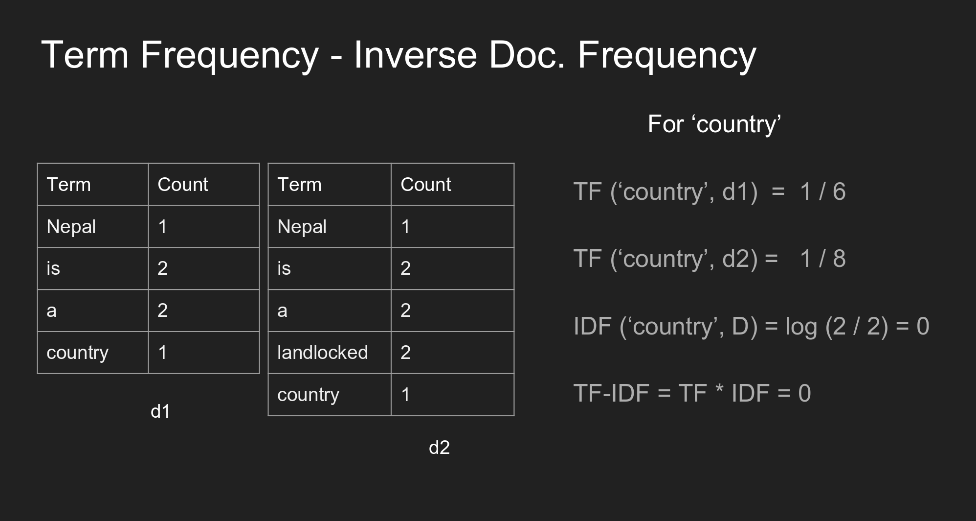
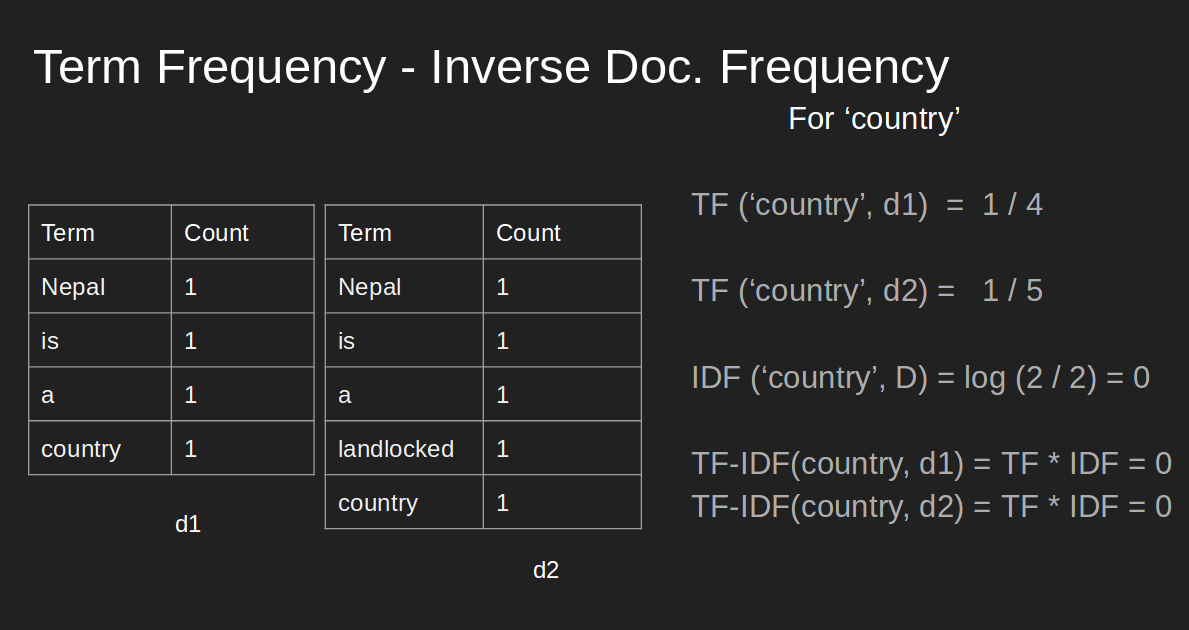
Nikola auto commit.
Source commit: 6259c2bf76c8254b4573d1e269edc7860df01e13
Nikola version: 8.0.1

diff --git a/blog/index.html b/blog/index.html
@@ -102,6 +102,7 @@
 <li>Summarizing a document by extracting keywords.</li>
 <li>Comparing two documents (similary/ relevancy check)</li>
 <li>Search query to documents matching for building query results for search engine</li>
+<li>Weighting 'terms' in the document.</li>
 </ol>
 </div>
 </div>
@@ -113,7 +114,7 @@
 <div class="text_cell_render border-box-sizing rendered_html">
 <h4 id="Inverse-Document-Frequency-(IDF):">Inverse Document Frequency (IDF):<a class="anchor-link" href="../posts/understanding-term-frequencey-and-inverse-document-frequency/#Inverse-Document-Frequency-(IDF):">¶</a>
 </h4>
-<p>It gives the importance to more relevant/significant term in the document. It tries to lower the weights to terms having less importance.</p>
+<p>It gives the importance to more relevant/significant term in the document. It tries to lower the weights to terms having less importance. And, rare terms will get significant weights.</p>
 
 </div>
 </div>
@@ -123,7 +124,19 @@
 </div>
 <div class="inner_cell">
 <div class="text_cell_render border-box-sizing rendered_html">
-<p>Suppose, I have two sentences representing blog content. I want to summarize it with extracting major keyword.</p>
+<h4 id="TF-IDF:">TF-IDF:<a class="anchor-link" href="../posts/understanding-term-frequencey-and-inverse-document-frequency/#TF-IDF:">¶</a>
+</h4>
+<p>It tries to prioritize the terms based on their occurrence and uniqueness.</p>
+
+</div>
+</div>
+</div>
+<div class="cell border-box-sizing text_cell rendered">
+<div class="prompt input_prompt">
+</div>
+<div class="inner_cell">
+<div class="text_cell_render border-box-sizing rendered_html">
+<p>Suppose, I have two documents in my corpus and I want to give tf-idf weighting to the terms.</p>
 <h5 id="Document-I-:-'Nepal-is-a-Country'">Document I : 'Nepal is a Country'<a class="anchor-link" href="../posts/understanding-term-frequencey-and-inverse-document-frequency/#Document-I-:-'Nepal-is-a-Country'">¶</a>
 </h5>
 <h5 id="Document-II-:-'Nepal-is-a-landlocked-Country'">Document II : 'Nepal is a landlocked Country'<a class="anchor-link" href="../posts/understanding-term-frequencey-and-inverse-document-frequency/#Document-II-:-'Nepal-is-a-landlocked-Country'">¶</a>
@@ -146,7 +159,14 @@
 </div>
 <div class="inner_cell">
 <div class="text_cell_render border-box-sizing rendered_html">
-<p>We can see that, although, term 'country' has prominent occurrence, 'tf-idf' gives priority to word 'landlocked'.</p>
+<p>We can see that, although, term 'country' has prominent occurrence, 'tf-idf' gives priority to word 'landlocked' and it carries more information about the document.</p>
+<h4 id="NOTE-1-:">NOTE 1 :<a class="anchor-link" href="../posts/understanding-term-frequencey-and-inverse-document-frequency/#NOTE-1-:">¶</a>
+</h4>
+<p>These weights are eventually used for vector-space model, where each term represents the axes, and document are the vectors on that space. Since 'tf-idf' value is zero (as shown above)' this representation is very sparse.</p>
+<h4 id="NOTE-2-:">NOTE 2 :<a class="anchor-link" href="../posts/understanding-term-frequencey-and-inverse-document-frequency/#NOTE-2-:">¶</a>
+</h4>
+<p>Suppose, we are building a search engine system. The query is also converted into vector in vector-space model and compare with documents
+(NOTE 1) to get the similarity between them.</p>
 
 </div>
 </div>

diff --git a/posts/understanding-term-frequencey-and-inverse-document-frequency/index.html b/posts/understanding-term-frequencey-and-inverse-document-frequency/index.html
@@ -102,6 +102,7 @@
 <li>Summarizing a document by extracting keywords.</li>
 <li>Comparing two documents (similary/ relevancy check)</li>
 <li>Search query to documents matching for building query results for search engine</li>
+<li>Weighting 'terms' in the document.</li>
 </ol>
 </div>
 </div>
@@ -113,7 +114,7 @@
 <div class="text_cell_render border-box-sizing rendered_html">
 <h4 id="Inverse-Document-Frequency-(IDF):">Inverse Document Frequency (IDF):<a class="anchor-link" href="#Inverse-Document-Frequency-(IDF):">¶</a>
 </h4>
-<p>It gives the importance to more relevant/significant term in the document. It tries to lower the weights to terms having less importance.</p>
+<p>It gives the importance to more relevant/significant term in the document. It tries to lower the weights to terms having less importance. And, rare terms will get significant weights.</p>
 
 </div>
 </div>
@@ -123,7 +124,19 @@
 </div>
 <div class="inner_cell">
 <div class="text_cell_render border-box-sizing rendered_html">
-<p>Suppose, I have two sentences representing blog content. I want to summarize it with extracting major keyword.</p>
+<h4 id="TF-IDF:">TF-IDF:<a class="anchor-link" href="#TF-IDF:">¶</a>
+</h4>
+<p>It tries to prioritize the terms based on their occurrence and uniqueness.</p>
+
+</div>
+</div>
+</div>
+<div class="cell border-box-sizing text_cell rendered">
+<div class="prompt input_prompt">
+</div>
+<div class="inner_cell">
+<div class="text_cell_render border-box-sizing rendered_html">
+<p>Suppose, I have two documents in my corpus and I want to give tf-idf weighting to the terms.</p>
 <h5 id="Document-I-:-'Nepal-is-a-Country'">Document I : 'Nepal is a Country'<a class="anchor-link" href="#Document-I-:-'Nepal-is-a-Country'">¶</a>
 </h5>
 <h5 id="Document-II-:-'Nepal-is-a-landlocked-Country'">Document II : 'Nepal is a landlocked Country'<a class="anchor-link" href="#Document-II-:-'Nepal-is-a-landlocked-Country'">¶</a>
@@ -146,7 +159,14 @@
 </div>
 <div class="inner_cell">
 <div class="text_cell_render border-box-sizing rendered_html">
-<p>We can see that, although, term 'country' has prominent occurrence, 'tf-idf' gives priority to word 'landlocked'.</p>
+<p>We can see that, although, term 'country' has prominent occurrence, 'tf-idf' gives priority to word 'landlocked' and it carries more information about the document.</p>
+<h4 id="NOTE-1-:">NOTE 1 :<a class="anchor-link" href="#NOTE-1-:">¶</a>
+</h4>
+<p>These weights are eventually used for vector-space model, where each term represents the axes, and document are the vectors on that space. Since 'tf-idf' value is zero (as shown above)' this representation is very sparse.</p>
+<h4 id="NOTE-2-:">NOTE 2 :<a class="anchor-link" href="#NOTE-2-:">¶</a>
+</h4>
+<p>Suppose, we are building a search engine system. The query is also converted into vector in vector-space model and compare with documents
+(NOTE 1) to get the similarity between them.</p>
 
 </div>
 </div>
